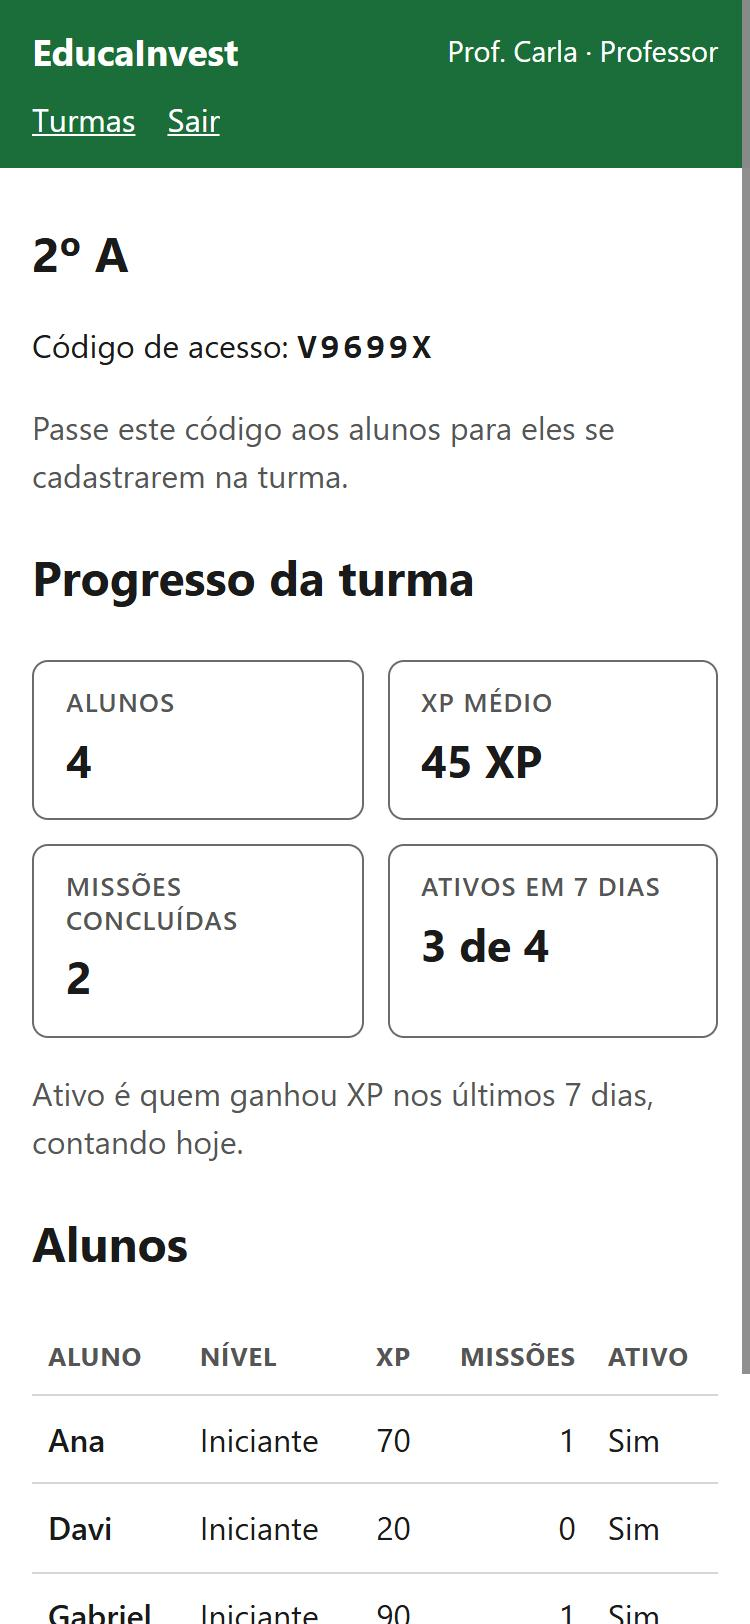
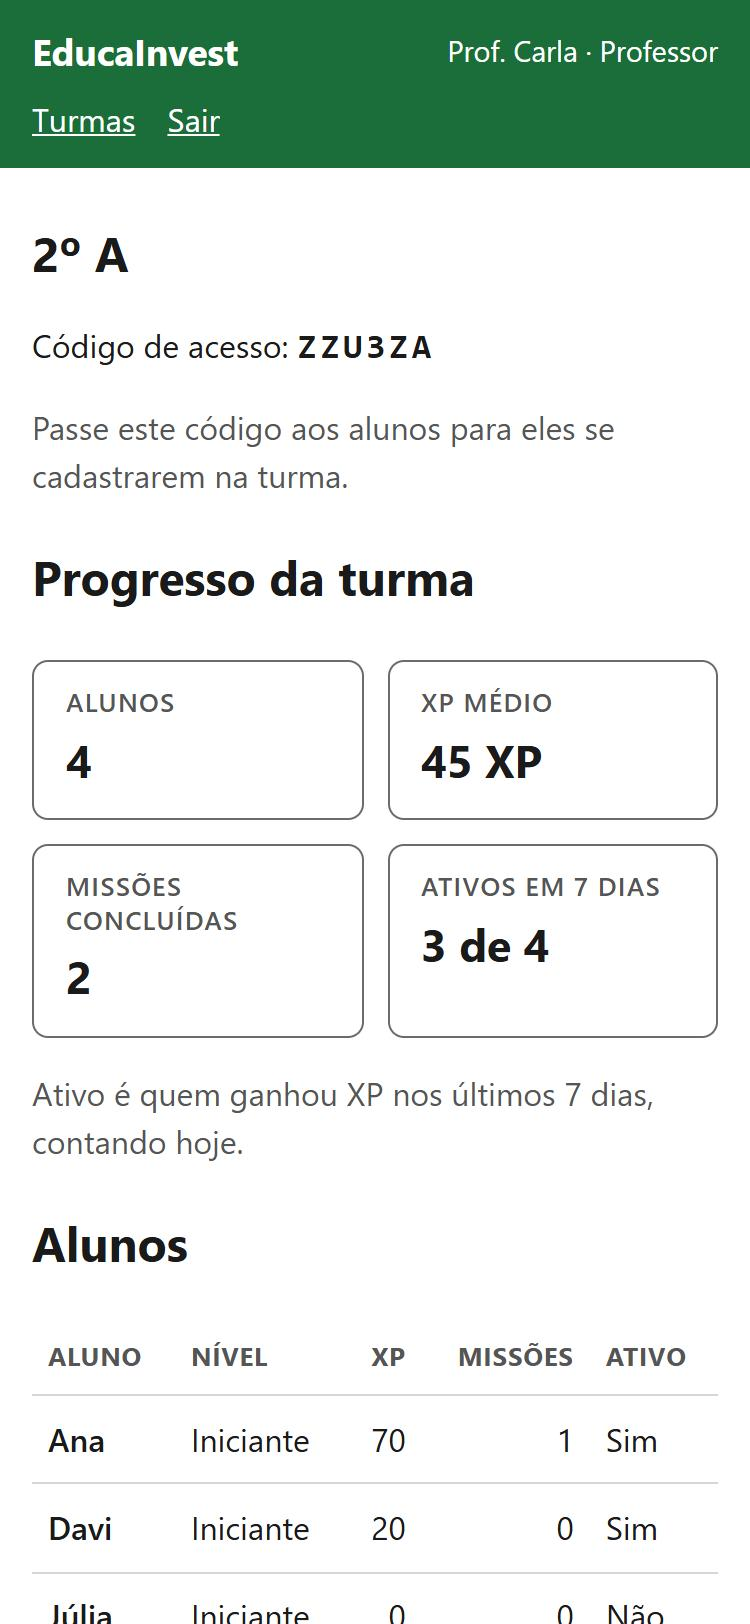
docs(docs): copia o texto exato da autorização, fixa o python 3.14 e troca o apelido dos prints

diff --git a/docs/ESPECIFICACAO.md b/docs/ESPECIFICACAO.md
@@ -44,7 +44,7 @@ Os valores marcados com *a confirmar* estão no código como constantes e podem 
 **Usuários e acesso**
 - RN-03: o aluno entra pelo código de turma gerado pelo professor e pertence a uma turma só.
 - RN-04: o e-mail é único, sem diferenciar maiúsculas (`Ana@x` = `ana@x`).
-- RN-05: o aluno só é criado com a autorização marcada ("tenho 18 anos ou mais, ou autorização do responsável ou da escola"). O texto ainda precisa de validação jurídica antes do uso com alunos reais.
+- RN-05: o aluno só é criado com a autorização marcada ("Tenho 18 anos ou mais, ou tenho autorização do meu responsável ou da escola para usar o EducaInvest."). O texto ainda precisa de validação jurídica antes do uso com alunos reais.
 
 **Registro financeiro**
 - RN-07: valor maior que zero e até R$ 100.000,00 (*a confirmar*), data não futura no fuso do Piauí (UTC−3) e categoria do mesmo tipo:

diff --git a/README.md b/README.md
@@ -40,7 +40,7 @@ O aluno registra o próprio dinheiro, cumpre missões e ganha XP. O professor ac
 
 ## Rodar localmente
 
-Precisa de Python 3.10 ou mais novo. O banco SQLite é criado sozinho no primeiro acesso.
+Precisa de Python 3.14. O banco SQLite é criado sozinho no primeiro acesso.
 
 ```bash
 git clone https://github.com/LyanKaleu/EducaInvest.git && cd EducaInvest
